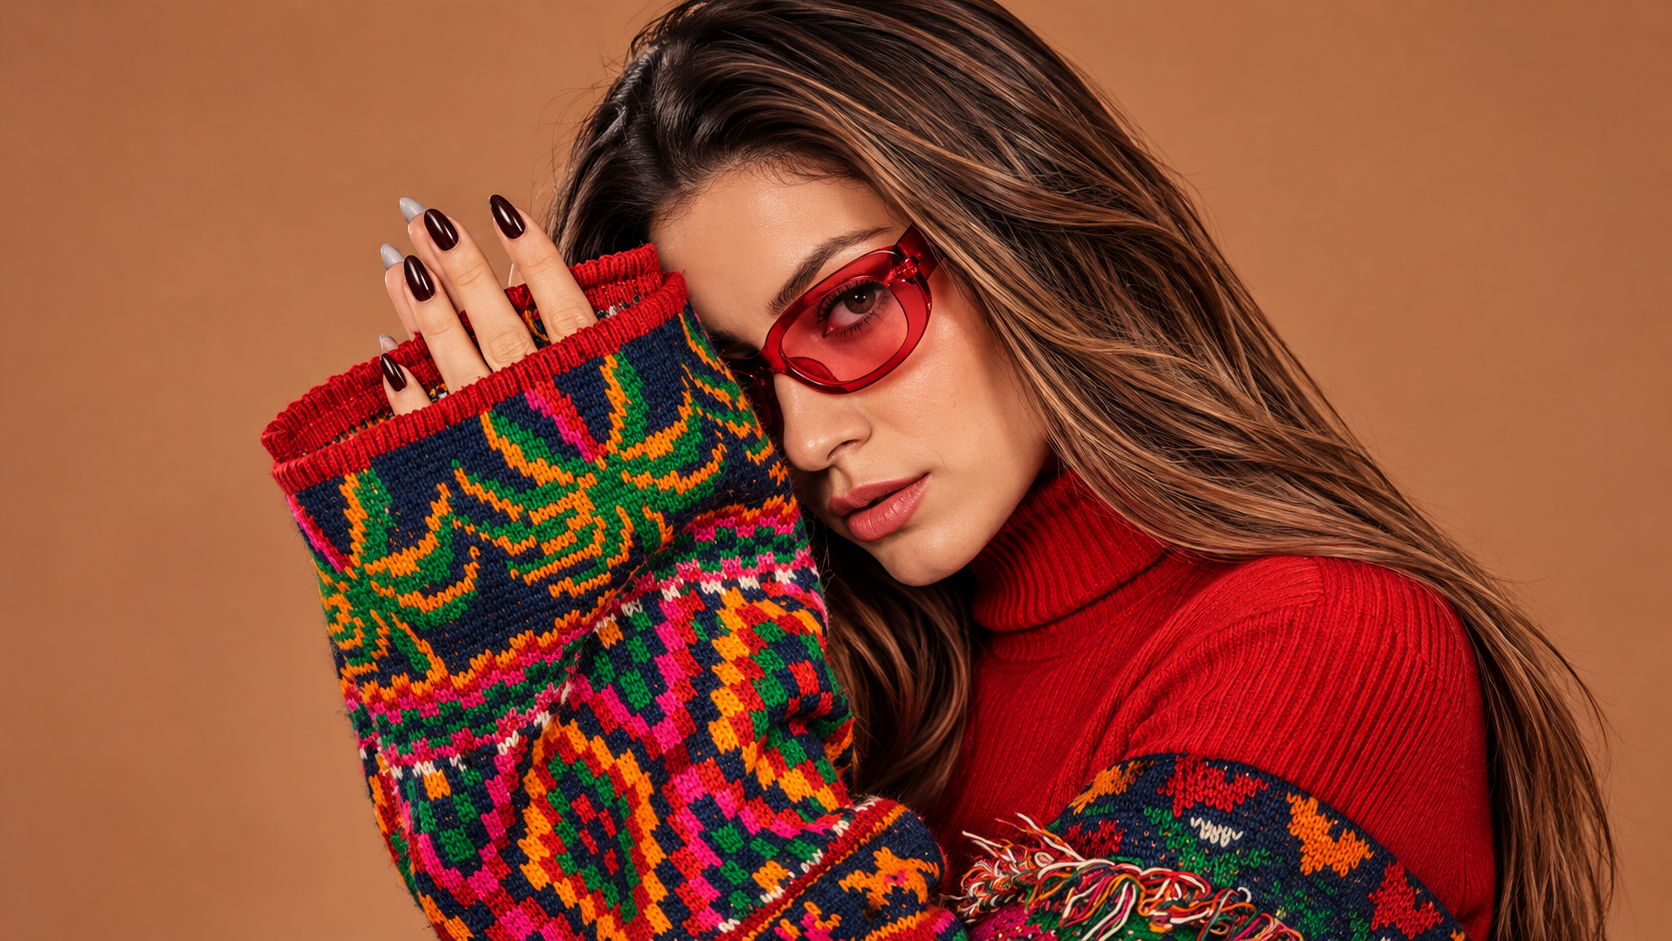
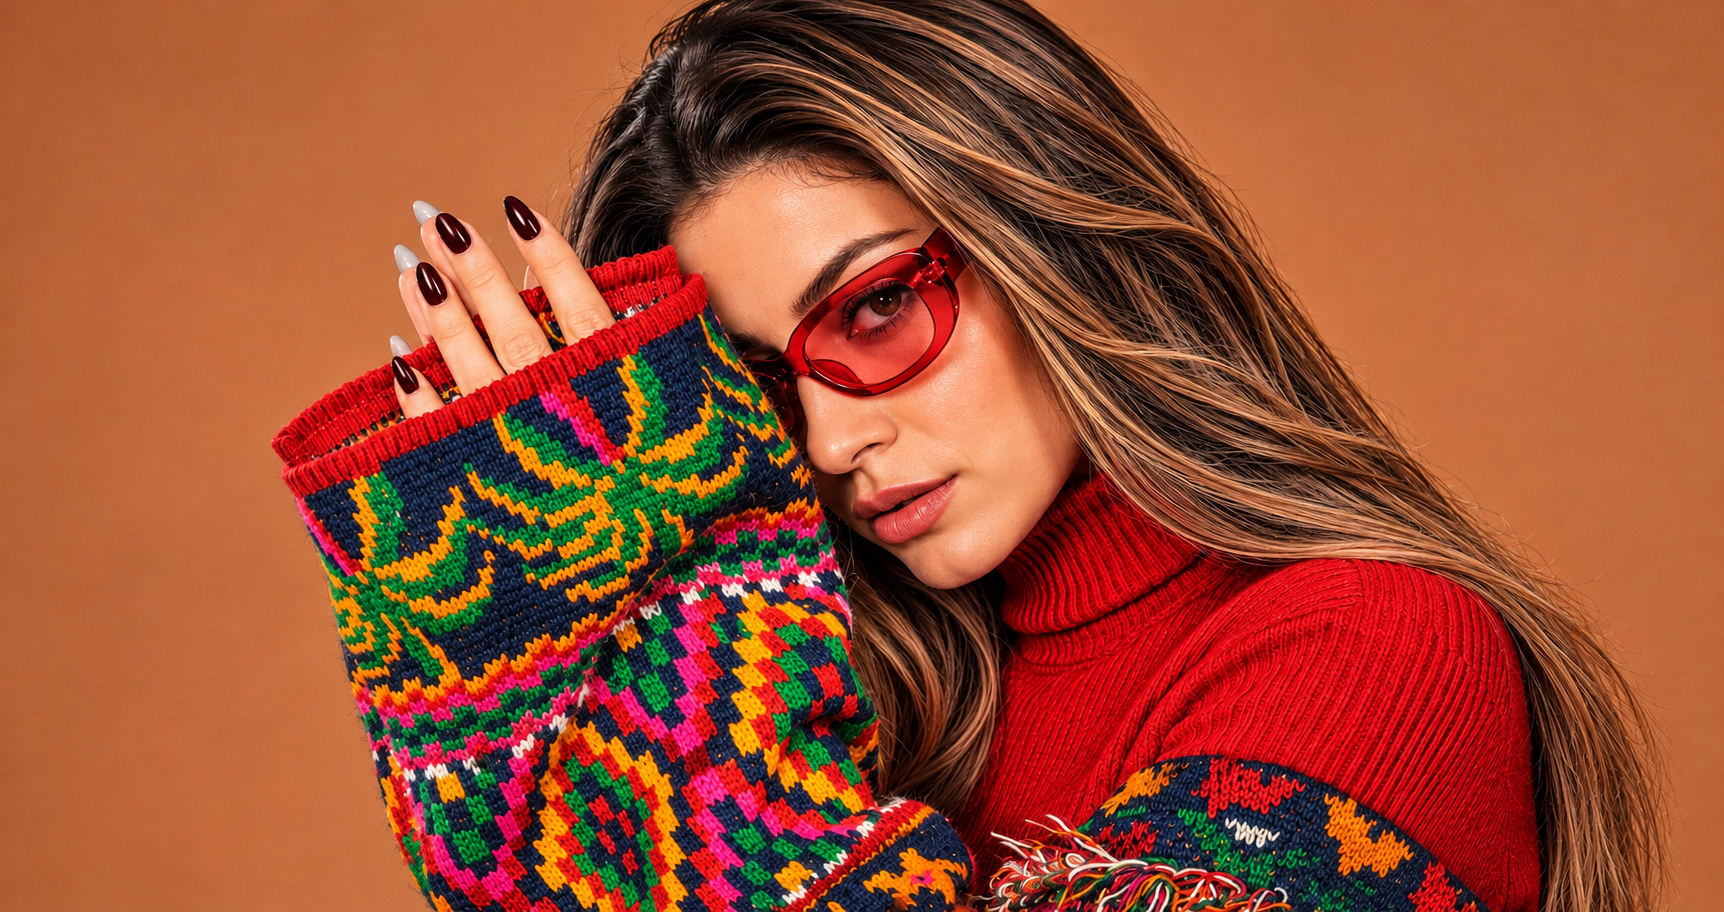
feat: replace Bloom Beauty desktop hero images and remove obsolete assets

diff --git a/index.html b/index.html
@@ -850,7 +850,7 @@ body {
 </style>
   <link rel="stylesheet" href="./css/styles.css?v=4.4.0" />
   <!-- Preload Critical Hero Slide 1 Image -->
-  <link rel="preload" as="image" href="Header Images/one.png" type="image/png" />
+  <link rel="preload" as="image" href="Header Images/1.png" type="image/png" />
   <script src="https://cdnjs.cloudflare.com/ajax/libs/jspdf/2.5.1/jspdf.umd.min.js"></script>
   <script>
     // Immediate resilient fallback for Account Dropdown before ES modules finish loading
